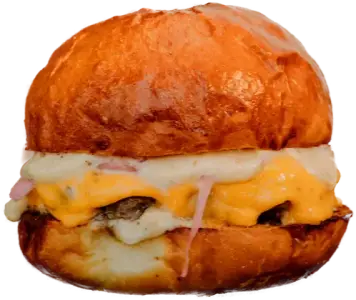
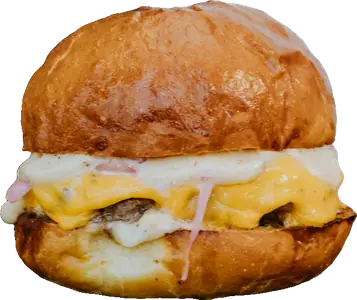
ID düzeltmesi: TRUFFLE → truffle, BRISKET → brisket (ters duruyordu)
ÖNCE VERİTABANI KONTROL EDİLDİ. orders BOŞ DEĞİLDİ: 82 satır vardı, 38'i brisket id'si
içeriyordu. Durdurulup sorulacak durumdu — soruldu. İncelemede hepsinin e2e test kaydı
olduğu görüldü (Panel Test, Malzeme Test, Gel Al, Canlı Test… ve 6 sahte telefon; gerçek
müşteri siparişi yok). Kullanıcı onayıyla tablo boşaltıldı, sonra takas yapıldı.
Silmeden önce 'bilinen test adları dışında kayıt var mı' sorgusu çalıştırıldı: 0 satır.

TAKAS EDİLENLER
  lib/menu.ts        iki kaydın id'si (adlar zaten doğruydu)
  public/urun/       brisket.webp ↔ truffle.webp (mobil kopyalar dahil)
  public/urun/ham/   brisket.jpg ↔ truffle.jpg
  assets/og/         brisket.png → truffle.png (o foto TRUFFLE'a ait)
  lib/cutCenters.json  brisket anahtarı → truffle
  messages/*.json    menuDesc anahtarları
  app/*/siparis      ogItem: brisket → truffle (aynı fotoğraf, id değişti)

DOKUNULMAYAN: lib/ingredientColors.ts içindeki brisket bir ID DEĞİL, et anahtar
kelimesi listesinde İngilizce sözcük. lib/testimonials.ts REEL_IMAGES de geçerli kaldı.

UÇTAN UCA DOĞRULANDI
  sepet anahtarları: truffle::trüf mayonez · brisket
  mock ödeme → sipariş oluştu (paid)
  Supabase items: id=truffle ad=Truffle ₺600 (çıkarılan: trüf mayonez) · id=brisket ad=Brisket ₺550
  panel kartı: 1×Truffle ₺600 + 1×Brisket ₺550, doğru adlarla
  test siparişi sonrasında silindi, orders yine 0

TESTLER: dil/cart-fx/hero-slide ₺600'lük ürünü brisket id'siyle kuruyordu; o ürün artık
truffle. Üçü de güncellendi ve geçiyor.
[…]

diff --git a/lib/menu.ts b/lib/menu.ts
@@ -50,12 +50,15 @@ export const MENU: Record<Category, MenuItem[]> = {
       layers: ["ust-ekmek", "aioli", "iceberg", "cheddar", "fume-kaburga", "karamelize-sogan", "kofte", "alt-ekmek"],
     },
     {
-      id: "brisket",
+      id: "truffle",
       pairs: ["jalapeno-sos", "mag-sos", "zencefilli-gazoz"],
-      /* AD DEĞİŞTİ (10 Eyl 2026): bu kayıt artık TRUFFLE. id KORUNDU — sepet anahtarları,
-         dilim dosyaları ve mevcut siparişler id'ye bağlı.
-         Fotoğrafı değişmedi (public/urun/brisket.webp).
-         İçerik 11 Eyl 2026'da işletmeden onaylı listeyle güncellendi.
+      /* ID DÜZELTİLDİ (11 Eyl 2026): id ile görünen ad ters duruyordu — TRUFFLE'ın id'si
+         "brisket"ti. orders tablosu (82 satır, hepsi e2e test kaydı) boşaltıldıktan sonra
+         takas edildi; sipariş akmaya başlayınca bu düzeltme yapılamazdı.
+
+         İŞLETME ONAYI BEKLİYOR: aşağıdaki desc ve ingredients işletmeden ONAYLI DEĞİL.
+         Kullanıcının örnek olarak yazdığı metin (11 Eyl 2026). Gerçek liste gelince
+         değişecek — o zamana kadar menüde bu görünüyor.
          Fiyat DEĞİŞMEDİ: işletmeden gelmedi. */
       name: "Truffle",
       price: 600,
@@ -101,12 +104,11 @@ export const MENU: Record<Category, MenuItem[]> = {
       ingredients: [{ name: "brioche ekmek", removable: false }, { name: "Mag sos", removable: true }, { name: "kıtır soğan", removable: true }, { name: "cheddar", removable: true }, { name: "130 gr burger köftesi", removable: false }],
     },
     {
-      id: "truffle",
+      id: "brisket",
       pairs: ["truflu-mayonez", "zencefilli-gazoz"],
-      /* AD DEĞİŞTİ (10 Eyl 2026): bu kayıt artık BRISKET, yeni fotoğrafıyla
-         (public/urun/brisket.webp). id KORUNDU.
-         AÇIK: desc ve ingredients hâlâ eski (trüflü/mantarlı) — brisket'e ait değil,
-         işletmeden gelecek. */
+      /* ID DÜZELTİLDİ (11 Eyl 2026): id ile görünen ad ters duruyordu.
+         AÇIK: desc ve ingredients hâlâ ESKİ (trüflü/mantarlı) — BRISKET'e ait değil,
+         işletmeden gelecek. Bilerek dokunulmadı. */
       name: "Brisket",
       price: 550,
       hero: true,

diff --git a/app/(tr)/siparis/page.tsx b/app/(tr)/siparis/page.tsx
@@ -3,7 +3,7 @@ import { getMessages } from "@/lib/i18n";
 import { pageMetadata } from "@/lib/seo";
 
 const t = getMessages("tr");
-export const metadata = pageMetadata({ locale: "tr", path: "/siparis", title: t.order.metaTitle, description: t.order.metaDesc, ogItem: "brisket" });
+export const metadata = pageMetadata({ locale: "tr", path: "/siparis", title: t.order.metaTitle, description: t.order.metaDesc, ogItem: "truffle" });
 
 /** SİPARİŞ — menü + sepet + teslimat (spec §6) */
 export default function SiparisPage() {

diff --git a/app/(en)/en/siparis/page.tsx b/app/(en)/en/siparis/page.tsx
@@ -3,7 +3,7 @@ import { getMessages } from "@/lib/i18n";
 import { pageMetadata } from "@/lib/seo";
 
 const t = getMessages("en");
-export const metadata = pageMetadata({ locale: "en", path: "/siparis", title: t.order.metaTitle, description: t.order.metaDesc, ogItem: "brisket" });
+export const metadata = pageMetadata({ locale: "en", path: "/siparis", title: t.order.metaTitle, description: t.order.metaDesc, ogItem: "truffle" });
 
 export default function OrderPageEn() {
   return <OrderPage />;

diff --git a/app/(ru)/ru/siparis/page.tsx b/app/(ru)/ru/siparis/page.tsx
@@ -3,7 +3,7 @@ import { getMessages } from "@/lib/i18n";
 import { pageMetadata } from "@/lib/seo";
 
 const t = getMessages("ru");
-export const metadata = pageMetadata({ locale: "ru", path: "/siparis", title: t.order.metaTitle, description: t.order.metaDesc, ogItem: "brisket" });
+export const metadata = pageMetadata({ locale: "ru", path: "/siparis", title: t.order.metaTitle, description: t.order.metaDesc, ogItem: "truffle" });
 
 export default function OrderPageRu() {
   return <OrderPage />;
